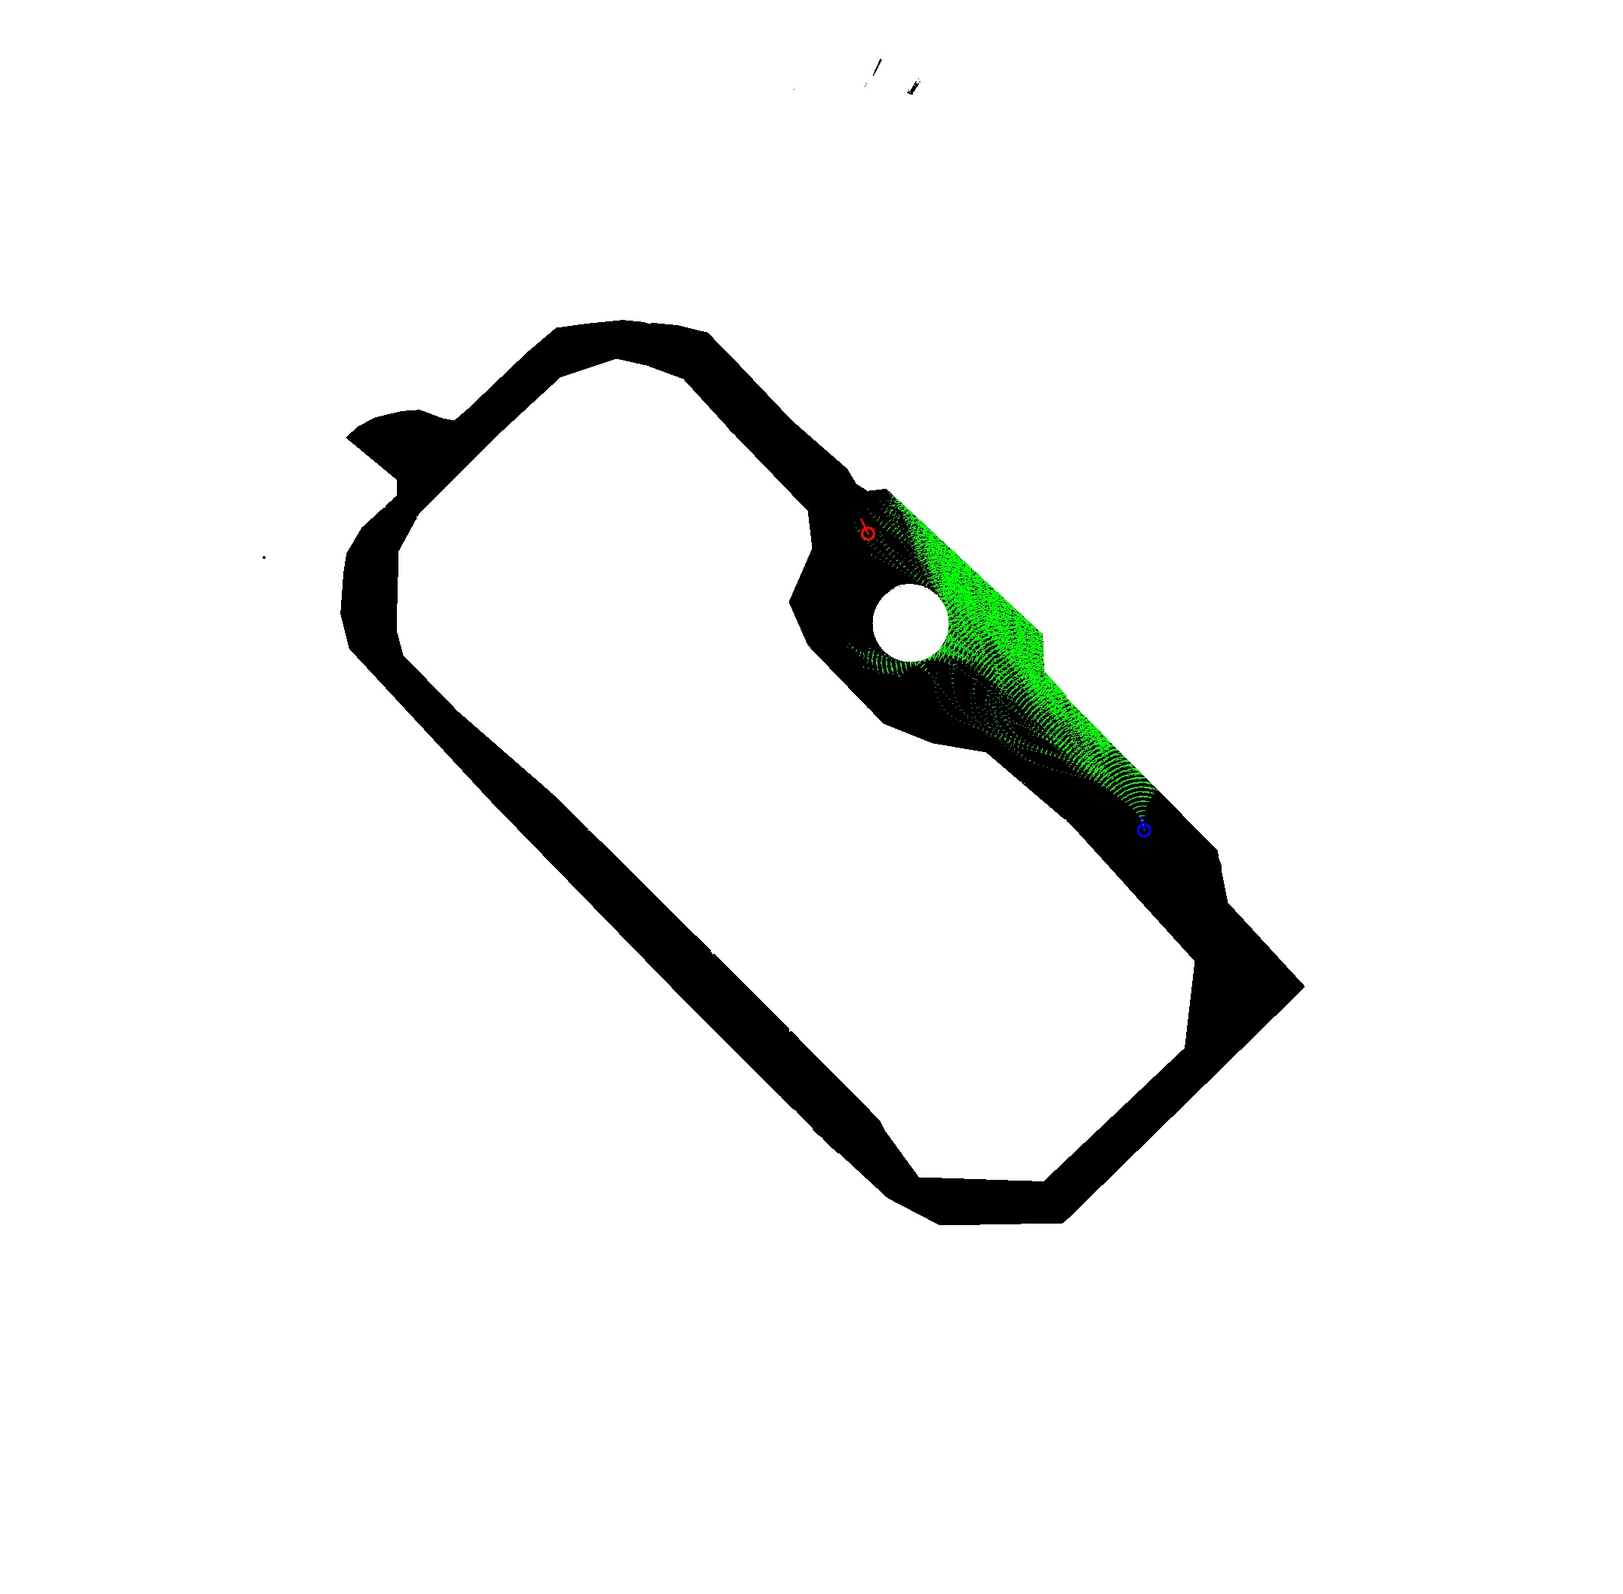
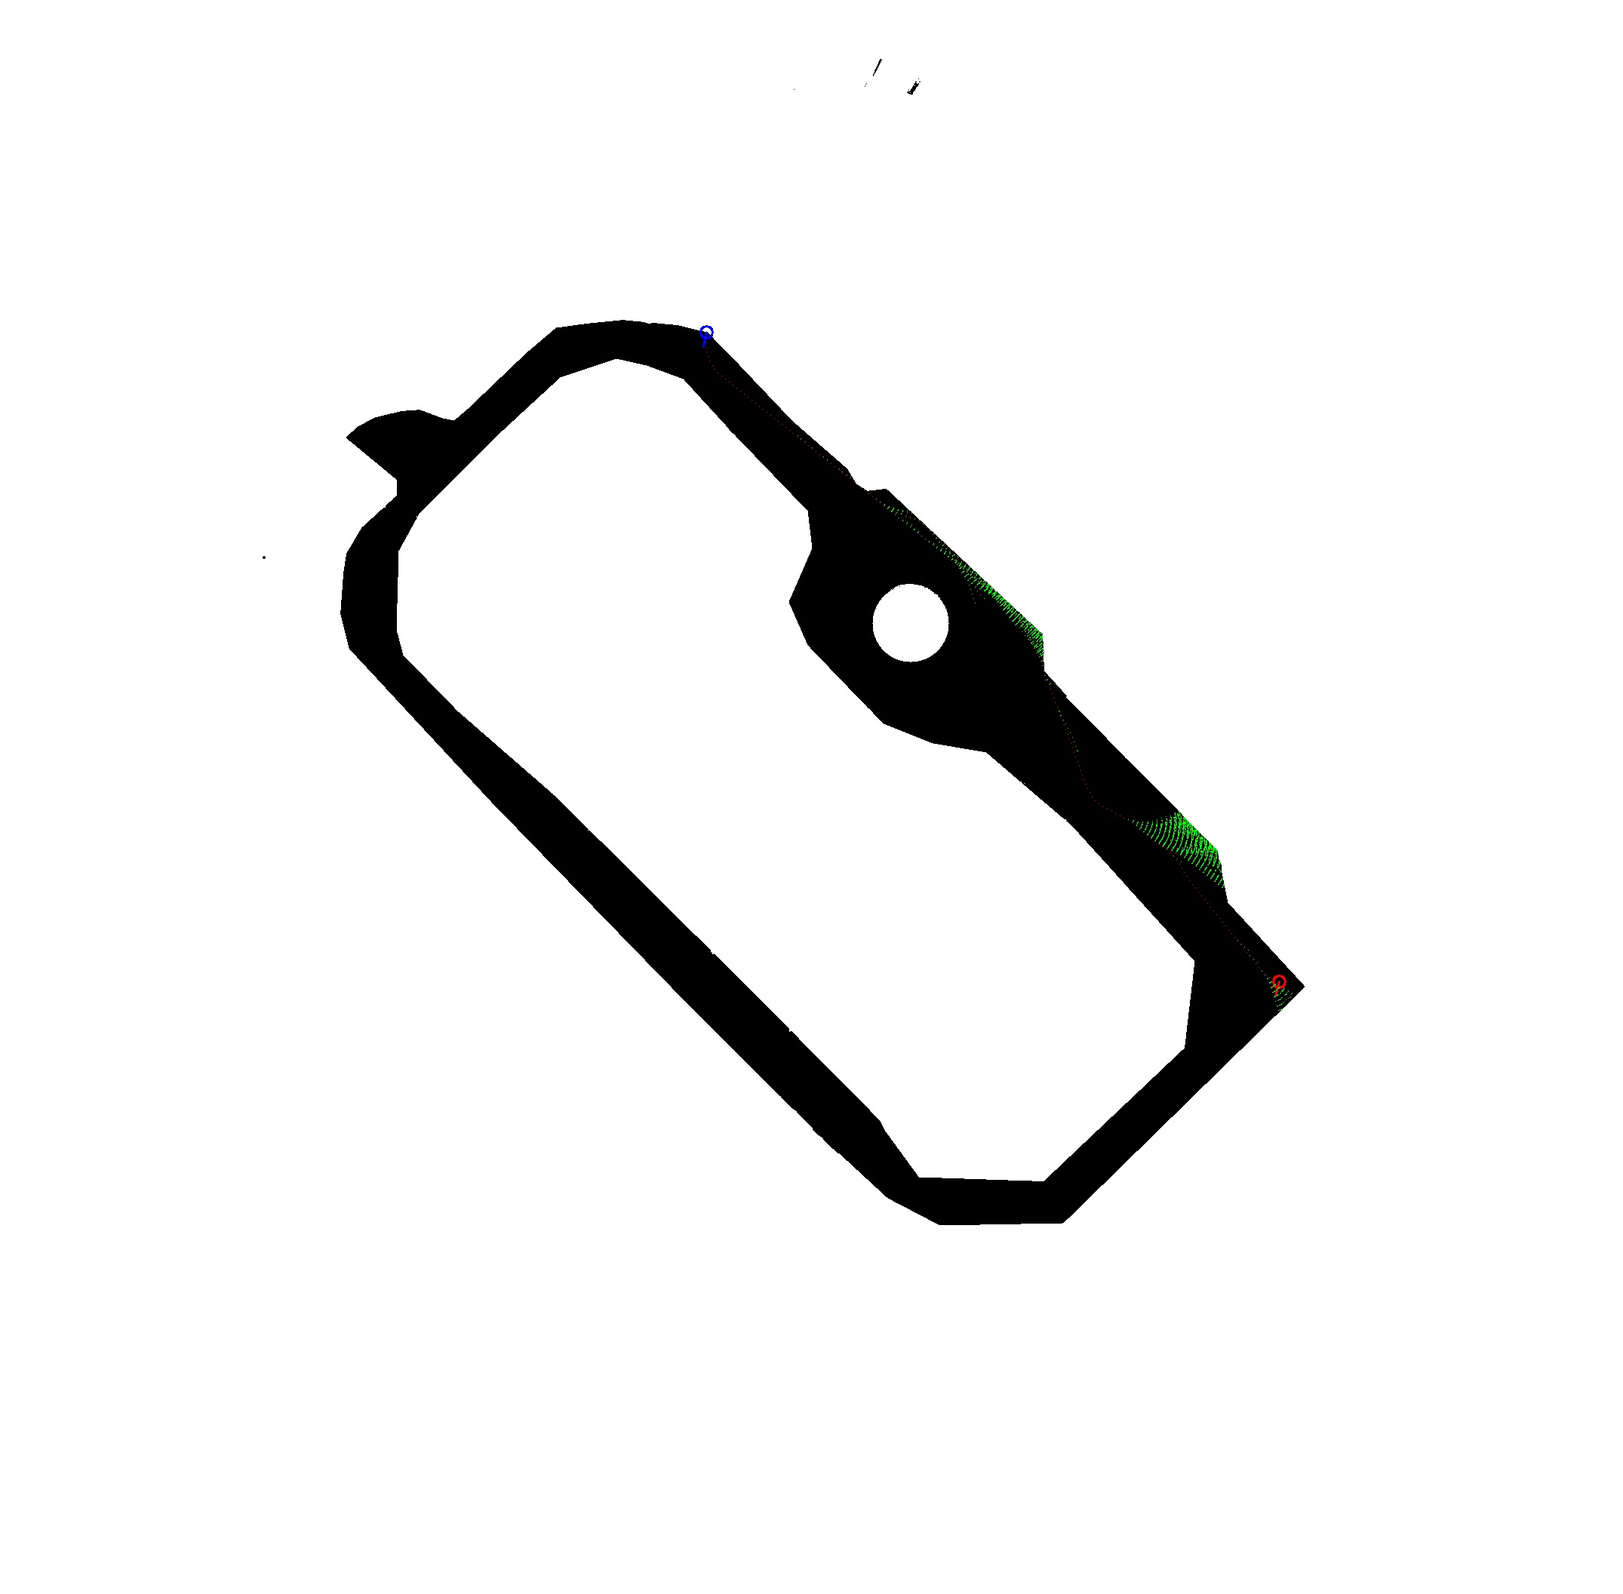
modified:   include/hybrid_a_star.h 	modified:   src/hybrid_a_star.cc

Changed region(s): [[0.5295, 0.3124, 0.7476, 0.5622]]

diff --git a/src/hybrid_a_star.cc b/src/hybrid_a_star.cc
@@ -1,50 +1,7 @@
 #include "hybrid_a_star.h"
 // construnction function of the base class AStar
 // note: all derived classes should obey the interface of the base class
-const double lmk_astar::AStar::pi_ = 3.1416;
-lmk_astar::AStar::AStar() {
-  //google::InitGoogleLogging("astar_planning");
-  //LOG(INFO) << "glog set successfully" << std::endl;
-  acquire_mapdata();
-}
-void lmk_astar::AStar::acquire_mapdata() {
-  ros::NodeHandle hybrid_astar_nh_("astar_planner");
-  int size(0);
-  while(!map_data_.metadata_flag) {
-    ros::ServiceClient map_meta_client = hybrid_astar_nh_.serviceClient<map_proc::MapMetaP>("/map_metadata_planner");
-    map_proc::MapMetaP map_meta;
-    if (map_meta_client.call(map_meta)) {
-      map_data_.map_length = map_meta.response.length;
-      map_data_.map_height = map_meta.response.height;
-      map_data_.resolution = map_meta.response.resolution;
-    } else {ROS_ERROR("error: failed to call map metadata");}
-    if (map_data_.map_height != -1 && map_data_.map_length != -1) {
-      map_data_.metadata_flag = true;
-      ROS_INFO("map data successfully received");
-    } else {map_data_.metadata_flag = false;}
-  }
-  std::vector<std::vector<int>> map_copy(map_data_.map_height, std::vector<int>(map_data_.map_length, -1));
-  ros::ServiceClient map_client = hybrid_astar_nh_.serviceClient<nav_msgs::GetMap>("/static_map");
-  nav_msgs::GetMap map_rawdata;
-  while(!map_data_.mapdata_flag) {
-    if (map_client.call(map_rawdata)) {
-      size = (map_rawdata.response.map.data).size();
-      map_data_.mapdata_flag = true;
-      for (int i = 0; i < size; ++i) {
-        int x_index = i%map_data_.map_length;
-        int y_index = i/map_data_.map_length;
-        if (map_rawdata.response.map.data[i] == -1) {
-          map_copy[y_index][x_index] = 1;
-        } else if (map_rawdata.response.map.data[i] == 0) {
-          map_copy[y_index][x_index] = 0;
-        } else if (map_rawdata.response.map.data[i] == 100) {
-          map_copy[y_index][x_index] = 1;
-        } else {}
-      }
-    } else {ROS_ERROR("error: falided to receive map data");}
-    map_data_.map_occupancy = map_copy;
-  }
-}
+const double lmk_astar::AStarInterface::pi_ = 3.1416;
 // construction/deconstruction function of struct VehiclePose
 lmk_astar::VehiclePose::VehiclePose() {
   parent = nullptr;
@@ -202,6 +159,7 @@ void lmk_astar::HybridAStar::Init() {
   std::cout << "Debug mode" << std::endl;
   acquire_mapdata_fromjpg();
 #endif
+  acquire_mapdata();
   car_parameters_ = tiguan_model_.get_parameter();
   pre_compute_heuristic_cost();
   set_destination();
@@ -214,52 +172,76 @@ void lmk_astar::HybridAStar::Proc() {
 }
 lmk_astar::HybridAStar::~HybridAStar() {}
 // public member function
-// main logic
-void lmk_astar::HybridAStar::hybrid_astar_search() {
-  ROS_INFO("start Hybrid A* planning");
-  VehiclePose temp_pose(initial_.x_pose, initial_.y_pose, initial_.heading_angle, 0);
-  temp_pose.total_cost = temp_pose.cost_g + heuristic_func(temp_pose);
-  open_list_.insert(temp_pose);
-  while (!open_list_.empty()) {
-    temp_pose = open_list_.top();
-    open_list_.pop();
-    // insert into closed list
-    map_data_.map_occupancy[temp_pose.y_index][temp_pose.x_index] = 2;
-    closed_list_.insert(std::pair<std::vector<int>, VehiclePose>({temp_pose.x_index, temp_pose.y_index}, temp_pose));
-    if (reach_destination(temp_pose)) {
-      destination_.parent = &(closed_list_.find({temp_pose.x_index, temp_pose.y_index})->second);
-      closed_list_.insert(std::pair<std::vector<int>, VehiclePose>({destination_.x_index, destination_.y_index}, destination_));
-      path_generator();
-      draw_demo();
-      return;
-    } else {update_neighbour(temp_pose);}
+void lmk_astar::HybridAStar::acquire_mapdata() {
+  ros::NodeHandle hybrid_astar_nh_("astar_planner");
+  int size(0);
+  while(!map_data_.metadata_flag) {
+    ros::ServiceClient map_meta_client = hybrid_astar_nh_.serviceClient<map_proc::MapMetaP>("/map_metadata_planner");
+    map_proc::MapMetaP map_meta;
+    if (map_meta_client.call(map_meta)) {
+      map_data_.map_length = map_meta.response.length;
+      map_data_.map_height = map_meta.response.height;
+      map_data_.resolution = map_meta.response.resolution;
+    } else {ROS_ERROR("error: failed to call map metadata");}
+    if (map_data_.map_height != -1 && map_data_.map_length != -1) {
+      map_data_.metadata_flag = true;
+      ROS_INFO("map data successfully received");
+    } else {map_data_.metadata_flag = false;}
   }
-  ROS_INFO("no path found");
+  std::vector<std::vector<int>> map_copy(map_data_.map_height, std::vector<int>(map_data_.map_length, -1));
+  ros::ServiceClient map_client = hybrid_astar_nh_.serviceClient<nav_msgs::GetMap>("/static_map");
+  nav_msgs::GetMap map_rawdata;
+  while(!map_data_.mapdata_flag) {
+    if (map_client.call(map_rawdata)) {
+      size = (map_rawdata.response.map.data).size();
+      map_data_.mapdata_flag = true;
+      for (int i = 0; i < size; ++i) {
+        int x_index = i%map_data_.map_length;
+        int y_index = i/map_data_.map_length;
+        if (map_rawdata.response.map.data[i] == -1) {
+          map_copy[y_index][x_index] = 1;
+        } else if (map_rawdata.response.map.data[i] == 0) {
+          map_copy[y_index][x_index] = 0;
+        } else if (map_rawdata.response.map.data[i] == 100) {
+          map_copy[y_index][x_index] = 1;
+        } else {}
+      }
+    } else {ROS_ERROR("error: falided to receive map data");}
+    map_data_.map_occupancy = map_copy;
+  }
 }
 double lmk_astar::HybridAStar::heuristic_func(VehiclePose cal_pose) {
+  int heuristic_length;
   if (destination_.y_pose == -1 || destination_.x_pose == -1) {
     ROS_ERROR("error: no destination set, could not calculate heuristic");
     return 0;
-  } else {return std::sqrt(std::pow((cal_pose.x_pose - destination_.x_pose), 2)+std::pow((cal_pose.y_pose - destination_.y_pose), 2));}
+  } else {
+    /*DP_search_.Init((destination_));
+    heuristic_length = DP_search_.normal_astar_search(initial_);
+    std::cout << "test result issssss " << heuristic_length << std::endl;*/
+    //return static_cast<double>(heuristic_length);
+    return (std::pow((cal_pose.x_index - destination_.x_index), 2) + std::pow((cal_pose.y_index - destination_.y_index), 2));
+  }
 }
 void lmk_astar::HybridAStar::update_neighbour(VehiclePose& cur_pose) {
   std::vector<std::vector<double>> neighbour_nodes = motion_primitive(cur_pose);
   VehiclePose temp_pose;
-  int open_index(0);
+  int open_index(-1);
   for (auto i : neighbour_nodes) {
     temp_pose = {i[1], i[0], i[2]};
     // check if the pose is valid: valid index and collision free
     if (i[1] >=0 && i[1] <= (map_data_.map_length-1) && i[0] >=0 && i[0] <= (map_data_.map_height-1) && collision_detection(temp_pose)) {
       // if in closed list, do nothing
-      if (map_data_.map_occupancy[temp_pose.y_index][temp_pose.x_index] == 2) {continue;}
+      if (closed_list_.find({temp_pose.x_index, temp_pose.y_index}) != closed_list_.end()) {continue;}
       // update cost_g
       temp_pose.cost_g = cur_pose.cost_g + i[3];
       // calculate the heuristic distance and update the current total_cost
       temp_pose.total_cost = heuristic_func(temp_pose) + temp_pose.cost_g;
       temp_pose.parent = &(closed_list_.find({cur_pose.x_index, cur_pose.y_index})->second);
       // if in openlist: check if its cost_g nearer
-      if (map_data_.map_occupancy[temp_pose.y_index][temp_pose.x_index] == 3) {
-        open_index = open_list_.find(temp_pose);
+      open_index = open_list_.find(temp_pose);
+      if (open_index != -1) {
+        
         if (open_list_.check_nearer(open_index, temp_pose)) {
           open_list_.decrease(open_index, temp_pose);
         } else {}
@@ -285,6 +267,27 @@ bool lmk_astar::HybridAStar::collision_detection(VehiclePose check_pose) {
   return false;
 }
 // private member function
+// main logic
+void lmk_astar::HybridAStar::hybrid_astar_search() {
+  ROS_INFO("start Hybrid A* planning");
+  VehiclePose temp_pose(initial_.x_pose, initial_.y_pose, initial_.heading_angle, 0);
+  temp_pose.total_cost = temp_pose.cost_g + heuristic_func(temp_pose);
+  open_list_.insert(temp_pose);
+  while (!open_list_.empty()) {
+    temp_pose = open_list_.top();
+    open_list_.pop();
+    // insert into closed list
+    closed_list_.insert(std::pair<std::vector<int>, VehiclePose>({temp_pose.x_index, temp_pose.y_index}, temp_pose));
+    if (reach_destination(temp_pose)) {
+      destination_.parent = &(closed_list_.find({temp_pose.x_index, temp_pose.y_index})->second);
+      closed_list_.insert(std::pair<std::vector<int>, VehiclePose>({destination_.x_index, destination_.y_index}, destination_));
+      path_generator();
+      draw_demo();
+      return;
+    } else {update_neighbour(temp_pose);}
+  }
+  ROS_INFO("no path found");
+}
 std::vector<std::vector<double>> lmk_astar::HybridAStar::motion_primitive(VehiclePose root_pose) {
   std::vector<std::vector<double>> neighbour_nodes;
   /*neighbour_nodes = {{root_pose.y_pose-1, root_pose.x_pose, root_pose.heading_angle, 1}, {root_pose.y_pose+1, root_pose.x_pose, root_pose.heading_angle, 1},
@@ -379,7 +382,7 @@ void lmk_astar::HybridAStar::pre_compute_heuristic_cost() {
   heuristic_lookup_talbe_ = temp_lookup_table;
 }
 void lmk_astar::HybridAStar::draw_demo() {
-  ROS_INFO("start drawing pic");
+  ROS_INFO("start drawing Hybrid A Star pic");
   cv::Mat show_img = cv::imread("/home/mingkun/lmk_ws/src/a_star/assets/map_base_img.jpg");
   cv::Point temp_point, end_point;
   VehiclePose* route_pointer(&(closed_list_.find({destination_.x_index, destination_.y_index})->second));
@@ -398,7 +401,7 @@ void lmk_astar::HybridAStar::draw_demo() {
   cv::line(show_img, temp_point, end_point, cv::Scalar(255, 0, 0), 2);
   for (int i = 0; i < map_data_.map_height; ++i) {
     for (int j = 0; j < map_data_.map_length; ++j) {
-      if (map_data_.map_occupancy[i][j] == 2) {
+      if (closed_list_.find({j, i}) != closed_list_.end()) {
         show_img.at<cv::Vec3b>(i,j)[0] = 0;
         show_img.at<cv::Vec3b>(i,j)[1] = 255;
         show_img.at<cv::Vec3b>(i,j)[2] = 0;
@@ -438,50 +441,49 @@ void lmk_astar::NormalAStar::Init(VehiclePose desti) {
   destination_grid_ = desti;
   cost_map_ = temp_cost_map;
 }
-int lmk_astar::NormalAStar::normal_astar_search(VehiclePose initial_gird) {
-  ROS_INFO("start normal A_star planning");
+double lmk_astar::NormalAStar::heuristic_func(VehiclePose start_grid) {
+  double length = std::abs(destination_grid_.x_index - start_grid.x_index) + std::abs(destination_grid_.y_index - start_grid.x_index);
+  return length;
+}
+// private member funciton
+int lmk_astar::NormalAStar::normal_astar_search(VehiclePose initial_grid) {
   int path_length;
-  VehiclePose temp_pose(initial_gird.x_pose, initial_gird.y_pose, initial_gird.heading_angle, 0);
+  VehiclePose temp_pose(initial_grid.x_pose, initial_grid.y_pose, initial_grid.heading_angle, 0);
   temp_pose.total_cost = temp_pose.cost_g + heuristic_func(temp_pose);
   open_list_.insert(temp_pose);
   while (!open_list_.empty()) {
     temp_pose = open_list_.top();
     open_list_.pop();
     // insert into closed list
-    map_data_.map_occupancy[temp_pose.y_index][temp_pose.x_index] = 2;
     closed_list_.insert(std::pair<std::vector<int>, VehiclePose>({temp_pose.x_index, temp_pose.y_index}, temp_pose));
     if (reach_destination(temp_pose)) {
       destination_grid_.parent = &(closed_list_.find({temp_pose.x_index, temp_pose.y_index})->second);
       closed_list_.insert(std::pair<std::vector<int>, VehiclePose>({destination_grid_.x_index, destination_grid_.y_index}, destination_grid_));
       path_length = path_generator();
-      //draw_demo();
+      //draw_demo(initial_grid);
       return path_length;
     } else {update_neighbour(temp_pose);}
   }
   return 0;
-}
-double lmk_astar::NormalAStar::heuristic_func(VehiclePose start_grid) {
-  double length = std::abs(destination_grid_.x_index - start_grid.x_index) + std::abs(destination_grid_.y_index - start_grid.x_index);
-  return length;
 }
 void lmk_astar::NormalAStar::update_neighbour(VehiclePose& cur_grid) {
   std::vector<std::vector<int>> neighbour_nodes = motion_primitive(cur_grid);
   VehiclePose temp_pose;
   int open_index(0);
   for (auto i : neighbour_nodes) {
-    temp_pose = {i[1], i[0], i[2]};
+    temp_pose = {static_cast<double>(i[1]), static_cast<double>(i[0]), static_cast<double>(i[2])};
     // check if the pose is valid: valid index and collision free
     if (i[1] >=0 && i[1] <= (map_data_.map_length-1) && i[0] >=0 && i[0] <= (map_data_.map_height-1) && collision_detection(temp_pose)) {
       // if in closed list, do nothing
-      if (map_data_.map_occupancy[temp_pose.y_index][temp_pose.x_index] == 2) {continue;}
+      if (closed_list_.find({temp_pose.x_index, temp_pose.y_index}) != closed_list_.end()) {continue;}
       // update cost_g
       temp_pose.cost_g = cur_grid.cost_g + i[2];
       // calculate the heuristic distance and update the current total_cost
       temp_pose.total_cost = heuristic_func(temp_pose) + temp_pose.cost_g;
       temp_pose.parent = &(closed_list_.find({cur_grid.x_index, cur_grid.y_index})->second);
       // if in openlist: check if its cost_g nearer
-      if (map_data_.map_occupancy[temp_pose.y_index][temp_pose.x_index] == 3) {
-        open_index = open_list_.find(temp_pose);
+      open_index = open_list_.find(temp_pose);
+      if (open_index != -1) {
         if (open_list_.check_nearer(open_index, temp_pose)) {
           open_list_.decrease(open_index, temp_pose);
         } else {}
@@ -516,4 +518,39 @@ inline int lmk_astar::NormalAStar::path_generator() {
     route_pointer = route_pointer->parent;
   }
   return count;
+}
+void lmk_astar::NormalAStar::draw_demo(VehiclePose initial) {
+  ROS_INFO("start drawing Normal A Star pic");
+  cv::Mat show_img = cv::imread("/home/mingkun/lmk_ws/src/a_star/assets/map_base_img.jpg");
+  cv::Point temp_point, end_point;
+  VehiclePose* route_pointer(&(closed_list_.find({destination_grid_.x_index, destination_grid_.y_index})->second));
+  // draw destination point and initial point
+  temp_point.x = destination_grid_.x_index;
+  temp_point.y = destination_grid_.y_index;
+  end_point.x = temp_point.x + 20*std::cos(destination_grid_.heading_angle);
+  end_point.y = temp_point.y + 20*std::sin(destination_grid_.heading_angle);
+  cv::circle(show_img, temp_point, 8, cv::Scalar(0, 0, 255), 2);
+  cv::line(show_img, temp_point, end_point, cv::Scalar(0, 0, 255), 2);
+  temp_point.x = initial.x_index;
+  temp_point.y = initial.y_index;
+  end_point.x = temp_point.x + 20*std::cos(initial.heading_angle);
+  end_point.y = temp_point.y + 20*std::sin(initial.heading_angle);
+  cv::circle(show_img, temp_point, 8, cv::Scalar(255, 0, 0), 2);
+  cv::line(show_img, temp_point, end_point, cv::Scalar(255, 0, 0), 2);
+  for (int i = 0; i < map_data_.map_height; ++i) {
+    for (int j = 0; j < map_data_.map_length; ++j) {
+      if (map_data_.map_occupancy[i][j] == 2) {
+        show_img.at<cv::Vec3b>(i,j)[0] = 0;
+        show_img.at<cv::Vec3b>(i,j)[1] = 255;
+        show_img.at<cv::Vec3b>(i,j)[2] = 0;
+      }
+    }
+  }
+  while (route_pointer->parent != nullptr) {
+    show_img.at<cv::Vec3b>(route_pointer->y_index, route_pointer->x_index)[0] = 0;
+    show_img.at<cv::Vec3b>(route_pointer->y_index, route_pointer->x_index)[1] = 0;
+    show_img.at<cv::Vec3b>(route_pointer->y_index, route_pointer->x_index)[2] = 255;
+    route_pointer = route_pointer->parent;
+  }
+  cv::imwrite("/home/mingkun/lmk_ws/src/a_star/assets/test1.jpg", show_img);
 }

diff --git a/include/hybrid_a_star.h b/include/hybrid_a_star.h
@@ -72,33 +72,48 @@ class OpenList {
   void min_heapify(int index);
   std::vector<VehiclePose> openlist_data_;
 };
-class AStar {
+class AStarInterface {
  public:
   static const double pi_;
-  AStar();
-  virtual ~AStar() = default;
  protected:
-  void acquire_mapdata();
   virtual double heuristic_func(VehiclePose cal_pose) = 0;
   virtual void update_neighbour(VehiclePose& cur_pose) = 0;
   virtual bool reach_destination(VehiclePose temp_pose) = 0;
   virtual bool collision_detection(VehiclePose check_pose) = 0;
-  OpenList open_list_;
+};
+class NormalAStar : virtual public AStarInterface{
+ public:
+  void Init(VehiclePose desti);
+  std::vector<std::vector<int>> cost_map_;
+ protected:
+  double heuristic_func(VehiclePose start_gird);
+  void update_neighbour(VehiclePose& cur_grid);
+  bool reach_destination(VehiclePose temp_grid);
+  bool collision_detection(VehiclePose check_grid);
   ROSMapData map_data_;
+ private:
+  int normal_astar_search(VehiclePose initial_gird);
+  std::vector<std::vector<int>> motion_primitive(VehiclePose root_grid);
+  int path_generator();
+  void draw_demo(VehiclePose initial);
+  VehiclePose destination_grid_;
+  OpenList open_list_;
   std::map<std::vector<int>, VehiclePose> closed_list_;
 };
-class HybridAStar : virtual public AStar {
+class HybridAStar : virtual public AStarInterface {
  public:
   void Init();
   void Proc();
   ~HybridAStar();
-  void hybrid_astar_search();
  protected:
   double heuristic_func(VehiclePose cal_pose);
   void update_neighbour(VehiclePose& cur_pose);
   bool reach_destination(VehiclePose temp_pose);
   bool collision_detection(VehiclePose check_pose);
+  ROSMapData map_data_;
  private:
+ void hybrid_astar_search();
+  void acquire_mapdata();
   std::vector<std::vector<double>> motion_primitive(VehiclePose root_pose);
   void path_generator();
   void set_destination();
@@ -111,27 +126,15 @@ class HybridAStar : virtual public AStar {
   void draw_demo();
   void draw_baseimg();
   // member parameters
+  NormalAStar DP_search_;
   std::vector<VehiclePose> path_found_;
   std::vector<double> car_parameters_;
   tiguan_movebase::VehicleMoveBase tiguan_model_;
   VehiclePose initial_;
   VehiclePose destination_;
   std::vector<std::vector<double>> heuristic_lookup_talbe_;
-};
-class NormalAStar : virtual public AStar{
- public:
-  void Init(VehiclePose desti);
-  int normal_astar_search(VehiclePose initial_gird);
-  std::vector<std::vector<int>> cost_map_;
- protected:
-  double heuristic_func(VehiclePose start_gird);
-  void update_neighbour(VehiclePose& cur_grid);
-  bool reach_destination(VehiclePose temp_grid);
-  bool collision_detection(VehiclePose check_grid);
- private:
-  std::vector<std::vector<int>> motion_primitive(VehiclePose root_grid);
-  int path_generator();
-  VehiclePose destination_grid_;
+  OpenList open_list_;
+  std::map<std::vector<int>, VehiclePose> closed_list_;
 };
 } // namespace lmk_astar
 // if X has already been defined, goto #else directly
